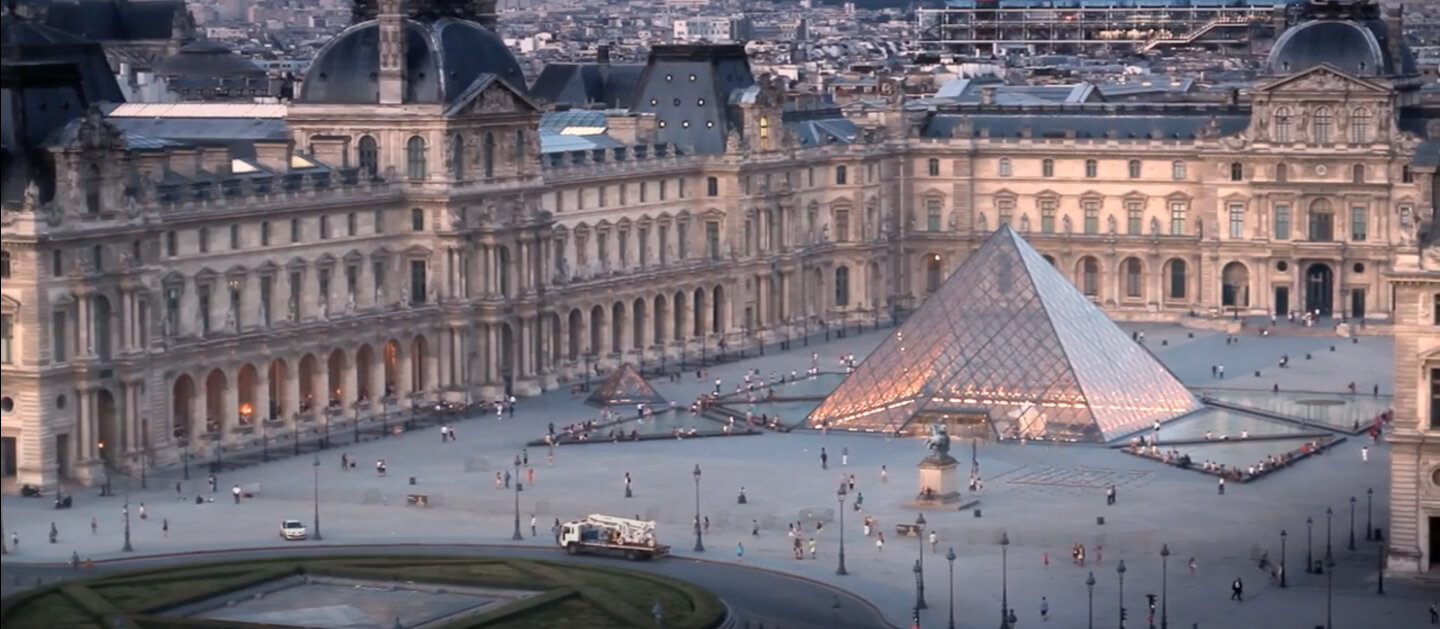
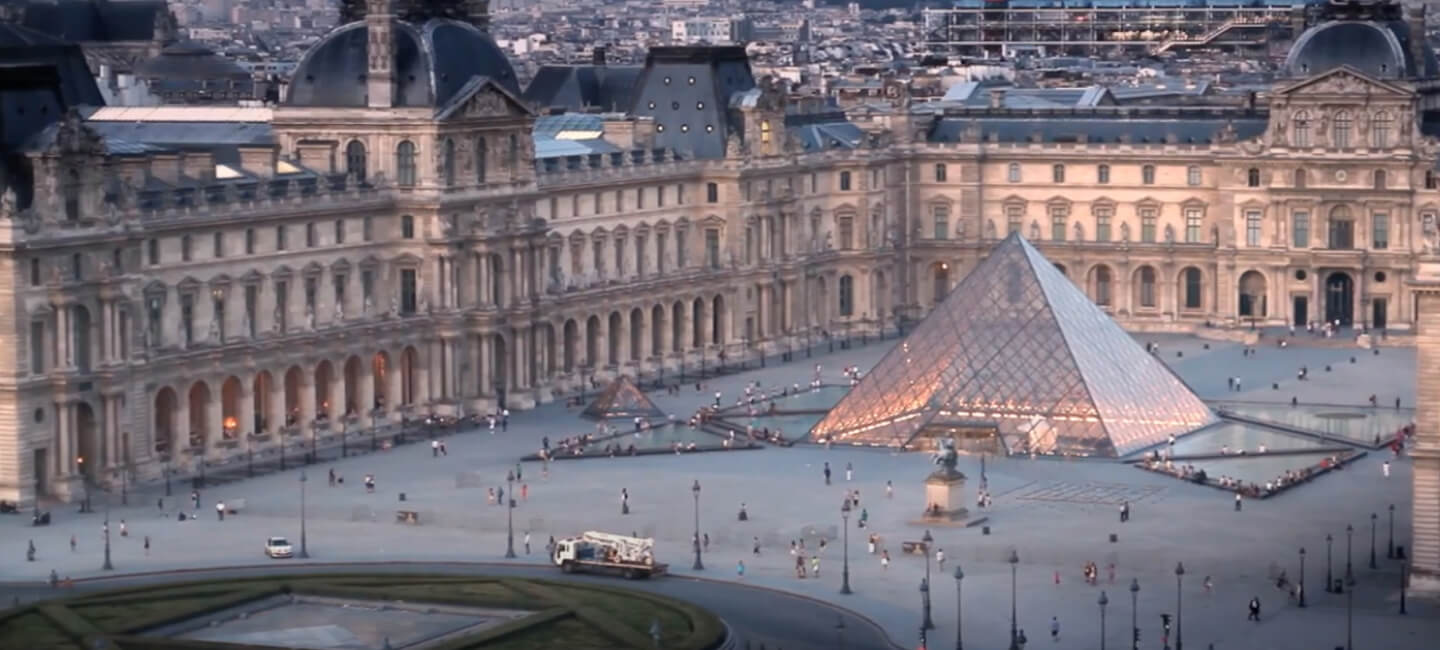
fix: add 1920px PP

diff --git a/museum-adaptive/css/style.css b/museum-adaptive/css/style.css
@@ -402,7 +402,7 @@ a {
 .section-video {
 }
 .video {
-  padding: 75px 0;
+  padding: 75px 0 70px;
 }
 .video__container {
 }
@@ -426,13 +426,15 @@ a {
   line-height: 175%;
 }
 .video-back {
-  margin-top: 90px;
+  margin-top: 75px;
   position: relative;
   padding: 0;
   background-color: #000;
 }
 .video-back__img {
   width: 100%;
+  max-height: 650px;
+  height: 100%;
 }
 .btn {
   border: none;
@@ -507,7 +509,7 @@ input[type=range]::-webkit-slider-thumb {
   background-image: url(../assets/icons/fullscreen.svg);
 }
 .video-slider{
-  margin-top: 40px;
+  margin-top: 35px;
 }
 .video-slider__content {
   display: flex;
@@ -562,7 +564,7 @@ input[type=range]::-webkit-slider-thumb {
 }
 .gallery {
   position: relative;
-  height: 1900px;
+  height: 2200px;
   overflow: hidden;
 }
 .gallery::after {
@@ -607,7 +609,7 @@ input[type=range]::-webkit-slider-thumb {
 .section-title--tickets::after {
   content: '';
   display: block;
-  margin: 28px 0 50px;
+  margin: 28px 0 30px;
   width: 100%;
   height: 3px;
   background-color: var(--dark-red);
@@ -722,7 +724,7 @@ input[type=number] {
 
 /* CONTACTS */
 .contacts {
-  padding-bottom: 75px;
+  padding-bottom: 85px;
 }
 .contacts__content {
   padding-left: 10px;
@@ -841,6 +843,14 @@ input[type=number] {
 }
 
 @media(max-width: 1470px){
+  .video,
+  .gallery,
+  .tickets,
+  .contacts,
+  .footer {
+    display: none;
+  }
+
   .amount {
     margin-left: 100px;
   }

diff --git a/museum-adaptive/index.html b/museum-adaptive/index.html
@@ -175,7 +175,7 @@
         </div>
       </div>
     </section>
-    <!-- <section class="section-video video section--light" id="video">
+    <section class="section-video video section--light" id="video">
       <div class="video__container container">
         <div class="video-desc">
           <h2 class="section-title video__title">Video journey</h2>
@@ -287,10 +287,8 @@
           </div>
       </div>
     </section>
-  -->
     <div class="parallax"></div>
 
-    <!--
     <section class="contacts section--light" id="contacts">
       <div class="container">
         <h2 class="section-title section-title--gold">Contacts</h2>
@@ -315,9 +313,9 @@
           </div>
         </div>
       </div>
-    </section> -->
+    </section>
   </main>
-  <!-- <footer class="footer dark-section">
+  <footer class="footer dark-section">
     <div class="footer__container container">
       <div class="footer__top">
         <div class="footer__logo logo">
@@ -384,7 +382,7 @@
         </ul>
       </div>
     </div>
-  </footer> -->
+  </footer>
   <script src="./js/main.js"></script>
 </body>
 </html>

diff --git a/museum-adaptive/js/main.js b/museum-adaptive/js/main.js
@@ -1,10 +1,10 @@
 console.log(`Привет, знаю, что работа выполнена не полностью. На данный момент: выполнен адаптив для
-- header 1024px - 4, 768px - 4, 420px - 4 => 12
+- header - нет реализации меню, только бургер и размеры - в каждой разрешении по 1б - 1024px - 1, 768px - 1, 420px - 1 => 3
 - welcome 1024px - 4, 768px - 4, 420px - 4 => 12
 - visiting 1024px - 4, 768px - 4, 420px - 4 => 12
 - explore 1024px - 4, 768px - 4, 420px - 2 => 10
 - нет полосы прокрутки - 6
 - резиновая верстка для слайдера секции welcome - 2
 - оптимизация скорости: (89, 92, 91) - 8
-Итого: 62
+Итого: 53
 `);
